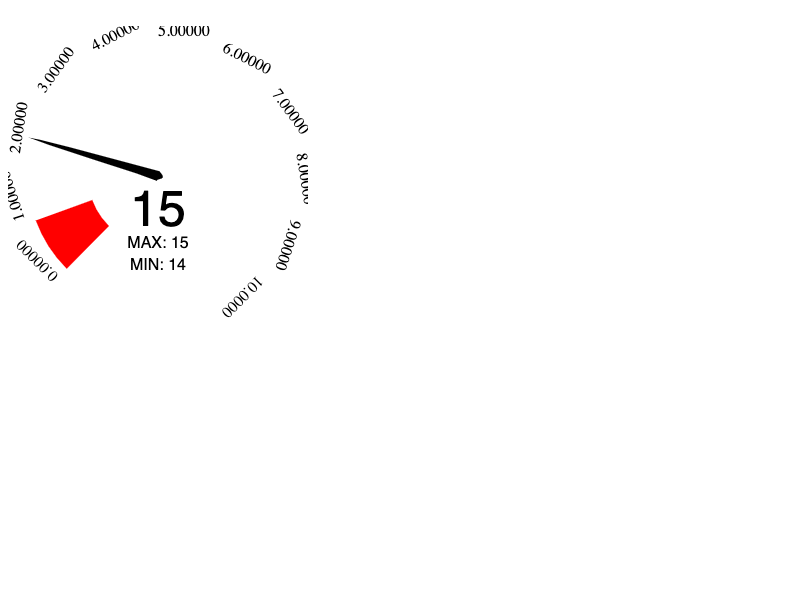
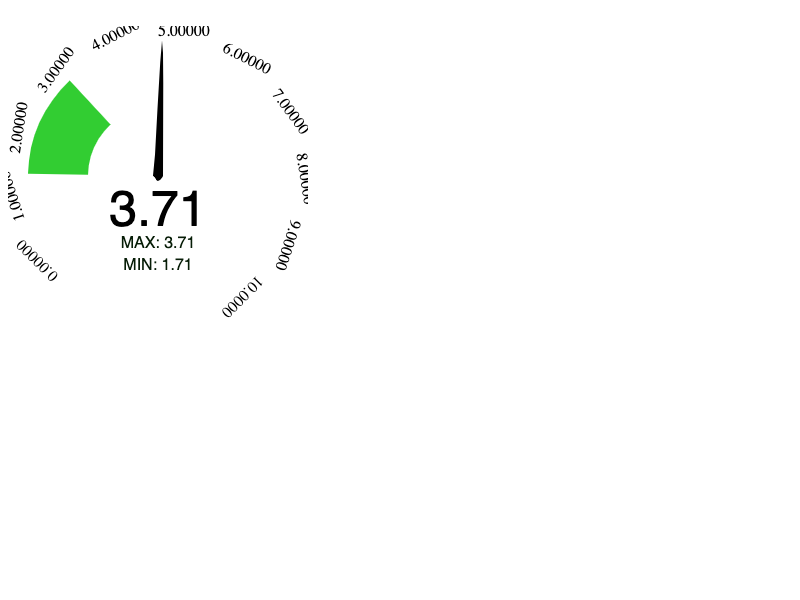
fixed version and bar text

Changed region(s): [[0.0312, 0.09, 0.25, 0.45]]

diff --git a/src/gauge/bar/bar.js b/src/gauge/bar/bar.js
@@ -1,14 +1,19 @@
 const d3 = require('d3');
 
 module.exports = class Bar {
-    constructor (parentSvg, config, r){
+    constructor (parentSvg, config, r, redBar, orangeBar, changeTextColor){
         this.pi = Math.PI;
         this.cur_color = 'limegreen';
+        this.cur_text_color = 'limegreen';
+        this.new_text_color = 'black';
+        this.changeTextColor = changeTextColor;
         this.max = 180;
         this.min = 0;
         this.current = 10;
         this.current = 10;
         this.currentFontSize = 50;
+        this.redBar = redBar;
+        this.orangeBar = orangeBar;
         this.parentSvg = parentSvg;
         this.config = config;
         this.r = r;
@@ -71,38 +76,53 @@ module.exports = class Bar {
     }
 
     update(newMax, newMin) {
-        var that = this;
-        var numPiEnd = this.convertScaleToRadians(newMax);// Get value
-        var numPiStart = this.convertScaleToRadians(newMin);// Get value
+        let that = this;
+        let numPiEnd = this.convertScaleToRadians(newMax);// Get value
+        let numPiStart = this.convertScaleToRadians(newMin);// Get value
         // var start = numPiEnd - 2;
-        var diff = Math.abs(numPiEnd) - Math.abs(numPiStart);
-        var startAndEnd = {
+        let diff = Math.abs(numPiEnd) - Math.abs(numPiStart);
+        let startAndEnd = {
             start: numPiStart,
             end: numPiEnd
         };
-        if (diff >= (30 / 360) * 2 * Math.PI) {
-            this.new_color = 'red';
-        } else if (diff >= (15 / 360) * 2 * Math.PI) {
-            this.new_color = 'orange';
+        if (diff >= that.redBar) {
+            that.new_color = 'red';
+        } else if (diff >= that.orangeBar) {
+            that.new_color = 'orange';
         } else {
-            this.new_color = 'limegreen';
+            that.new_color = 'limegreen';
         }
 
-        this.min.transition().duration(750).styleTween("fill", function () {
-            return d3.interpolate(this.new_color, this.cur_color);
-        }).text("MIN: " + this.rounder(newMin));
+        if (that.changeTextColor) {
+            that.min.transition().duration(750).styleTween("fill", function () {
+                return d3.interpolate(that.new_color, that.cur_color);
+            }).text("MIN: " + that.rounder(newMin));
 
-        this.max.transition().duration(750).styleTween("fill", function () {
-            return d3.interpolate(this.new_color, this.cur_color);
-        }).text("MAX: " + this.rounder(newMax));
+            that.max.transition().duration(750).styleTween("fill", function () {
+                return d3.interpolate(that.new_color, that.cur_color);
+            }).text("MAX: " + that.rounder(newMax));
+        } else {
+            let chanceColor = Math.random() * 10;
+            that.new_text_color = chanceColor > 5 ? 'grey': 'black';
+            that.min.transition().duration(750).styleTween("fill", function () {
+                return d3.interpolate(that.new_text_color, that.cur_text_color);
+            }).text("MIN: " + that.rounder(newMin));
 
-        this.svgRenderedArc.transition().duration(750).styleTween("fill", function () {
-            return d3.interpolate(this.new_color, this.cur_color);
+            that.max.transition().duration(750).styleTween("fill", function () {
+                return d3.interpolate(that.new_text_color, that.cur_text_color);
+            }).text("MAX: " + that.rounder(newMax));
+        }
+
+
+        that.svgRenderedArc.transition().duration(750).styleTween("fill", function () {
+            return d3.interpolate(that.new_color, that.cur_color);
         }).call(aTween, startAndEnd);
         // Set colors for next transition
-        this.hold = this.cur_color;
-        this.cur_color = this.new_color;
-        this.new_color = this.hold;
+        that.hold = that.cur_color;
+        that.hold_text = that.cur_text_color;
+        that.cur_color = that.new_color;
+        that.cur_text_color = that.new_text_color;
+        that.new_text_color = that.hold_text;
 
         function aTween(transition, newAngle) {
             return transition.attrTween("d", function (d) {
@@ -116,4 +136,4 @@ module.exports = class Bar {
             });
         }
     }
-}
+};

diff --git a/src/gauge/gauge.js b/src/gauge/gauge.js
@@ -59,6 +59,9 @@ module.exports = class Gauge {
 
         this.container = container;
         this.configure(configuration);
+        this.redBar = (30 / 360) * 2 * Math.PI;
+        this.orangeBar = (15 / 360) * 2 * Math.PI;
+        this.changeTextColor = false;
     }
 
     deg2rad(deg) {
@@ -127,7 +130,7 @@ module.exports = class Gauge {
                 startAngle: -90 * (Math.PI / 180),
                 endAngle: -90 * (Math.PI / 180)
             })
-            .style("fill", 'blue')
+            .style("fill", 'red')
             .attr("d", this.arc);
     }
 
@@ -140,7 +143,7 @@ module.exports = class Gauge {
             .attr('height', that.config.clipHeight)
             .append('g');
 
-        that.arcs = new Bar(that.svg, that.config, that.r);
+        that.arcs = new Bar(that.svg, that.config, that.r, that.redBar, that.orangeBar, that.changeTextColor);
         that.labels = new Labels(that.svg, that.config, that.ticks);
         that.pointer = new Pointer(that.svg, that.config, that.r);
     }

diff --git a/src/app.js b/src/app.js
@@ -4,7 +4,7 @@ const d3 = require('d3');
 onDocumentReady();
 
 function onDocumentReady() {
-    var powerGauge = new Gauge('#power-Gauge', {
+    let powerGauge = new Gauge('#power-Gauge', {
         size: 300,
         clipWidth: 300,
         clipHeight: 300,
@@ -16,10 +16,9 @@ function onDocumentReady() {
 
     function updateReadings() {
         // just pump in random data here...
-        var newValue = Math.random() * 10;
-        var newValue = 15;
+        let newValue = Math.random() * 10;
         powerGauge.update(newValue);
-        powerGauge.updateBar(newValue, newValue - 1);
+        powerGauge.updateBar(newValue, newValue - 2);
     }
 
     // every few seconds update reading values

diff --git a/index.html b/index.html
@@ -8,7 +8,6 @@
     </main>
     <br>
     <div id="power-gauge"></div>
-<!--    <script data-require="d3@*" data-semver="3.2.2" src="//cdnjs.cloudflare.com/ajax/libs/d3/3.2.2/d3.min.js"></script>-->
     <script src="node_modules/d3/dist/d3.min.js"></script>
     <script src="dist/main.js"></script>
 </body>
